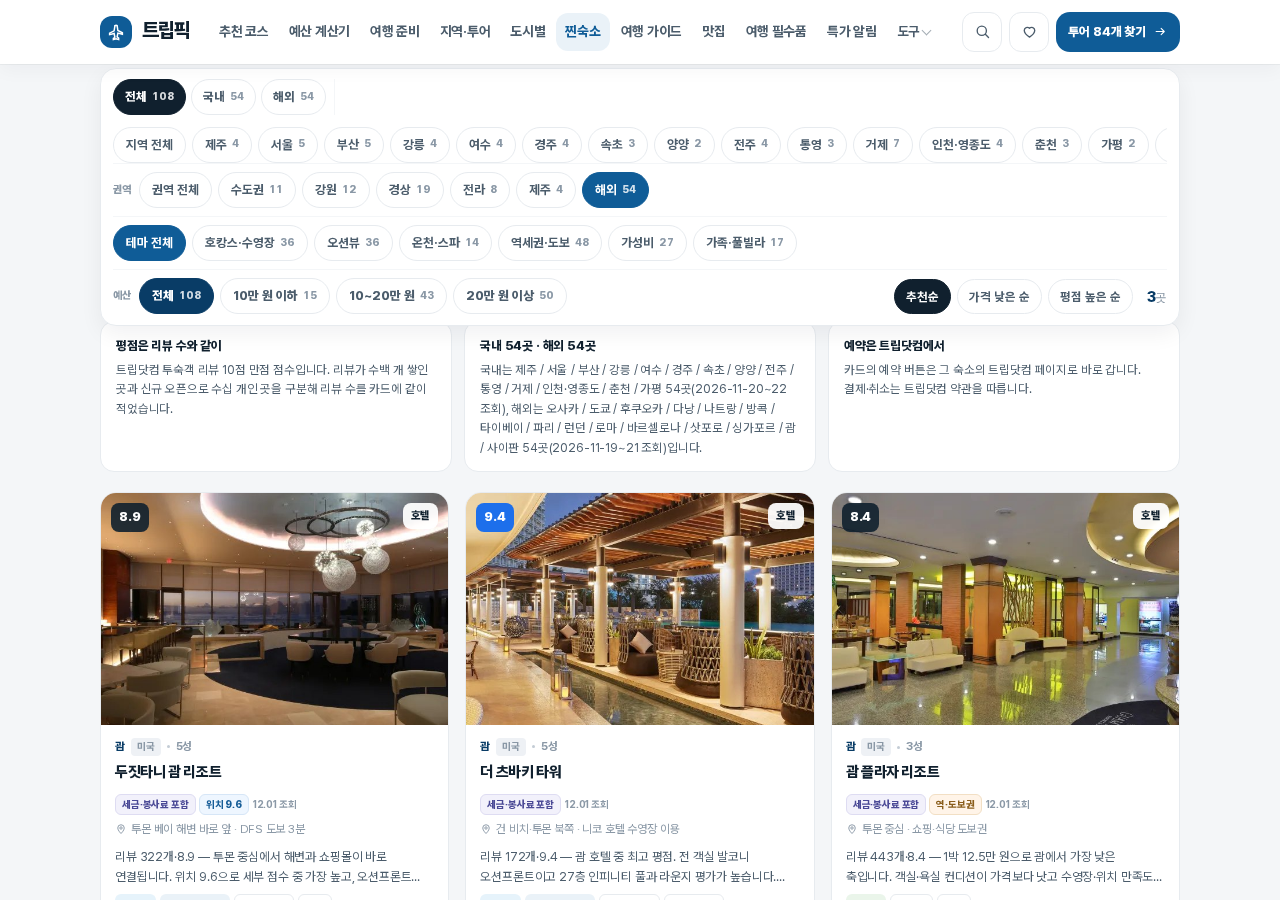
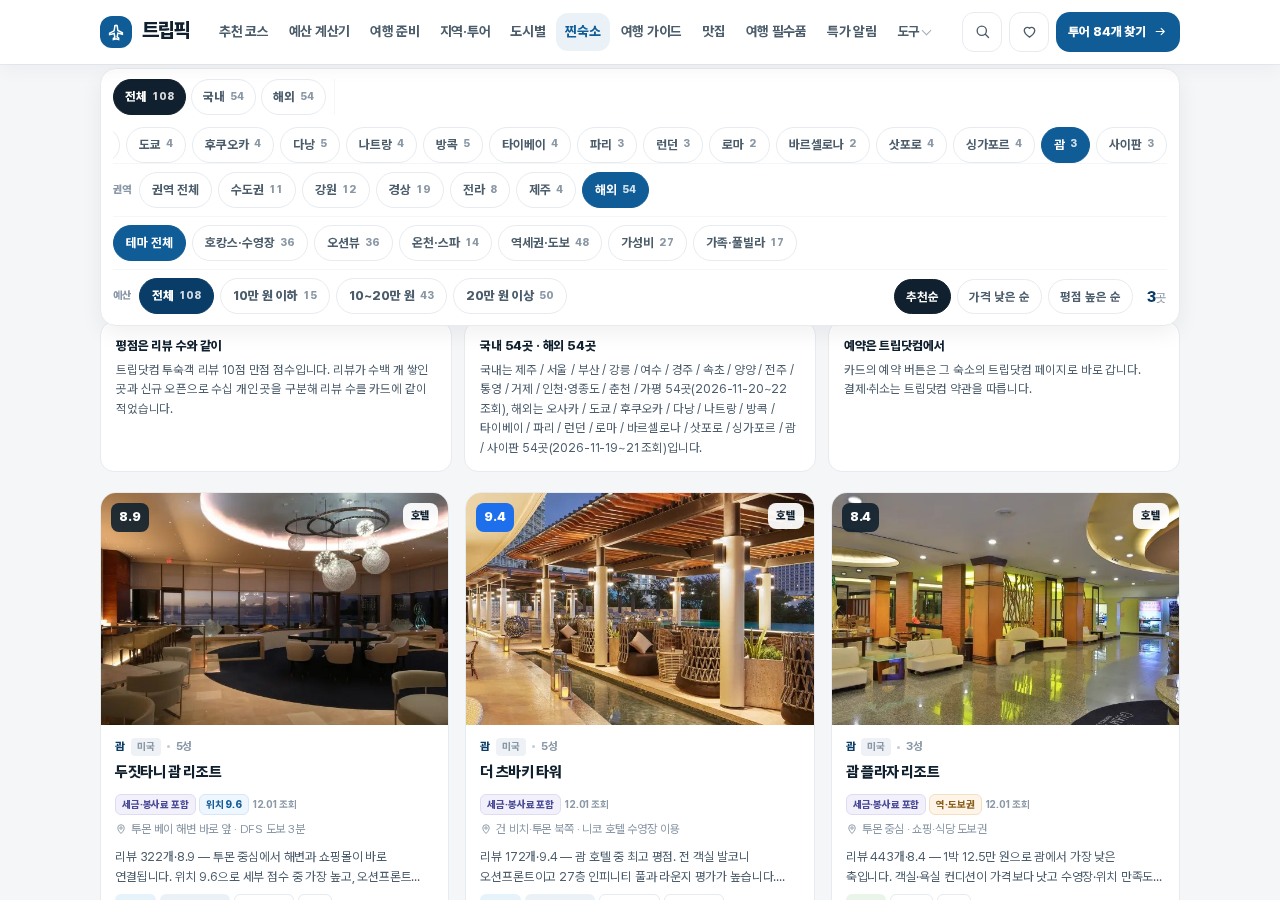
v46: /stays 모바일 지역 필터 — 접힌 버튼에 선택 지역 표시(지역: 괌)

diff --git a/deploy_site/stays.html b/deploy_site/stays.html
@@ -3112,6 +3112,7 @@
       var url = location.pathname + (p.length ? '?' + p.join('&') : '');
       history.replaceState(null, '', url);
     }
+    if (typeof syncFold === 'function') syncFold();
   }
 
   function mark(btns, el){
@@ -3194,12 +3195,27 @@
     if (location.hash && location.hash.length > 1) setRegion(location.hash.slice(1));
   });
 
+  /* v46: 모바일에서 ?region=guam 으로 들어오면 접힌 「지역 선택」 버튼에 선택 지역 이름을 보여 준다 */
+  function foldName(){
+    if (state.region && state.region !== 'all'){
+      var b = regionBtns.filter(function(x){ return x.getAttribute('data-region') === state.region; })[0];
+      if (b) return '지역: ' + b.textContent.replace(/[0-9]/g, '').trim();
+    }
+    return '지역 선택';
+  }
+  function syncFold(){
+    var f = document.getElementById('sfFold'), sf = document.getElementById('sf');
+    if (!f || !sf) return;
+    f.innerHTML = foldName() + ' <i>' + (sf.classList.contains('open-regions') ? '▴' : '▾') + '</i>';
+  }
+
   var fold = document.getElementById('sfFold');
   if (fold) fold.addEventListener('click', function(){
     var sf = document.getElementById('sf');
     var open = sf.classList.toggle('open-regions');
     fold.setAttribute('aria-expanded', open ? 'true' : 'false');
-    fold.innerHTML = open ? '지역 선택 <i>▴</i>' : '지역 선택 <i>▾</i>';
+    syncFold();
+    revealChips();
   });
 
   var reset = document.getElementById('sfReset');
@@ -3222,6 +3238,7 @@
   }
   render(false);
   revealChips();
+  syncFold();
   if (needJump){ var sf = document.getElementById('sf'); if (sf && sf.scrollIntoView) sf.scrollIntoView({ block: 'start' }); revealChips(); }
 })();
 </script>

diff --git a/tour_hub/build_pages.py b/tour_hub/build_pages.py
@@ -3941,6 +3941,7 @@ def stays_filter_script() -> str:
       var url = location.pathname + (p.length ? '?' + p.join('&') : '');
       history.replaceState(null, '', url);
     }
+    if (typeof syncFold === 'function') syncFold();
   }
 
   function mark(btns, el){
@@ -4023,12 +4024,27 @@ def stays_filter_script() -> str:
     if (location.hash && location.hash.length > 1) setRegion(location.hash.slice(1));
   });
 
+  /* v46: 모바일에서 ?region=guam 으로 들어오면 접힌 「지역 선택」 버튼에 선택 지역 이름을 보여 준다 */
+  function foldName(){
+    if (state.region && state.region !== 'all'){
+      var b = regionBtns.filter(function(x){ return x.getAttribute('data-region') === state.region; })[0];
+      if (b) return '지역: ' + b.textContent.replace(/[0-9]/g, '').trim();
+    }
+    return '지역 선택';
+  }
+  function syncFold(){
+    var f = document.getElementById('sfFold'), sf = document.getElementById('sf');
+    if (!f || !sf) return;
+    f.innerHTML = foldName() + ' <i>' + (sf.classList.contains('open-regions') ? '▴' : '▾') + '</i>';
+  }
+
   var fold = document.getElementById('sfFold');
   if (fold) fold.addEventListener('click', function(){
     var sf = document.getElementById('sf');
     var open = sf.classList.toggle('open-regions');
     fold.setAttribute('aria-expanded', open ? 'true' : 'false');
-    fold.innerHTML = open ? '지역 선택 <i>▴</i>' : '지역 선택 <i>▾</i>';
+    syncFold();
+    revealChips();
   });
 
   var reset = document.getElementById('sfReset');
@@ -4051,6 +4067,7 @@ def stays_filter_script() -> str:
   }
   render(false);
   revealChips();
+  syncFold();
   if (needJump){ var sf = document.getElementById('sf'); if (sf && sf.scrollIntoView) sf.scrollIntoView({ block: 'start' }); revealChips(); }
 })();
 </script>"""

diff --git a/v46_shots/capture.py b/v46_shots/capture.py
@@ -66,11 +66,16 @@ with sync_playwright() as p:
                       names: vis.map(e => (e.querySelector('b, h3, .scard-name') || {}).innerText || '').slice(0, 6),
                       regions: vis.map(e => e.getAttribute('data-region')).slice(0, 6),
                       sw: document.documentElement.scrollWidth, iw: window.innerWidth,
-                      active: (document.querySelector('[data-region].on, .chip.on, [aria-selected="true"]') || {}).innerText || null}
+                      active: (document.querySelector('[data-region].on, .chip.on, [aria-selected="true"]') || {}).innerText || null,
+                      chip: (() => { const c = document.querySelector('.sf-regionchips .gf-chip.on'); if (!c) return null;
+                        const b = c.parentElement.getBoundingClientRect(), r = c.getBoundingClientRect();
+                        return {text: c.innerText, inView: r.left < b.right - 1 && r.right > b.left + 1, box: [Math.round(b.left), Math.round(b.right)], chip: [Math.round(r.left), Math.round(r.right)]}; })()}
             }""")
             ok(info['visible'] == 3, f'stays {rid} {w}: visible {info["visible"]} / total {info["total"]}')
             ok(all(r == rid for r in info['regions']), f'stays {rid} {w}: 다른 지역 카드 노출 {info["regions"]}')
             ok(info['sw'] <= info['iw'] + 1, f'stays {rid} {w}: 가로 넘침 {info["sw"]}>{info["iw"]}')
+            if w == 1280:
+                ok(info['chip'] and info['chip']['inView'], f'stays {rid} {w}: 선택 칩이 스크롤 밖 {info["chip"]}')
             pg.screenshot(path=f'{SHOTS}/stays_{rid}_{w}.png')
             report.append({'stays': rid, 'w': w, **info})
         ok(not errs, f'stays {w}: JS 오류 {errs[:3]}')
